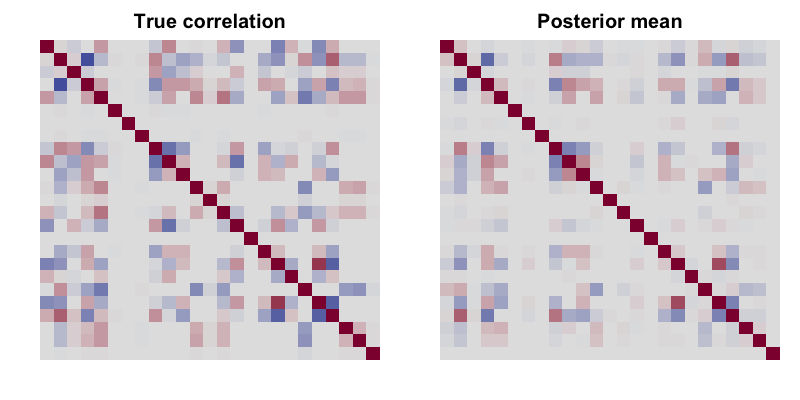
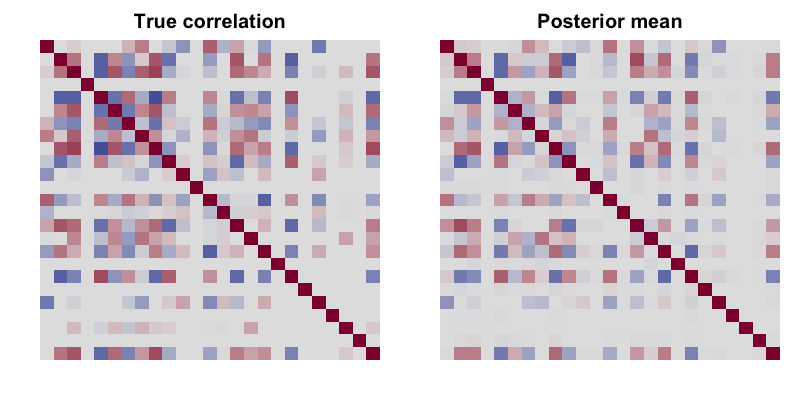
Use seed with stronger recovery in walkthrough (correlation ~0.92)

diff --git a/examples/zimln-simulation.md b/examples/zimln-simulation.md
@@ -58,21 +58,21 @@ M
 #> [1] 10
 
 sim <- simulate_zimln(n = 30, J = 25, K = 3, zero.rate = 0.5,
-                      M = M, m = m, seed = 1)
+                      M = M, m = m, seed = 8)
 
 Y <- sim$Y
 dim(Y)                             # 30 samples x 25 OTUs
 #> [1] 30 25
 Y[1:6, 1:8]                        # a corner of the count table
-#>       [,1]   [,2] [,3] [,4]  [,5] [,6] [,7] [,8]
-#> [1,]     0   2018 2667  245  1041    0 3221 4197
-#> [2,]   736      0   38  104 22222   71    0  535
-#> [3,] 14084  23842  226    0     4   93    0    0
-#> [4,]  1355 343575    0    0  1545    0    7    0
-#> [5,]  1620  33282  326    4   131   61    5    0
-#> [6,]   255      0    0    0     0  207  424  719
+#>      [,1] [,2]  [,3] [,4]   [,5] [,6] [,7] [,8]
+#> [1,]    2    3     0    0 283561    0   25   27
+#> [2,]  626 3904 66142  185      1    0    1    0
+#> [3,] 1184    1     3  194      0    0  401  411
+#> [4,]    3    0     0  464      0    2    0    0
+#> [5,]   23  501     0  468      0    0  178    0
+#> [6,]   66    0    70  226  17226   60  249    0
 mean(Y == 0)                       # fraction of zeros
-#> [1] 0.324
+#> [1] 0.3386667
 ```
 
 Each row of `Y` is a sample; rows sharing a subject (e.g. rows 1-3) are
@@ -101,7 +101,7 @@ compare the posterior mean to the truth on the off-diagonal entries:
 rho_est <- posterior_correlation(fit)          # J x J matrix
 ut <- upper.tri(rho_est)
 cor(rho_est[ut], sim$true.cor[ut])             # agreement with the truth
-#> [1] 0.8405615
+#> [1] 0.9200584
 ```
 
 ![](zimln-simulation_files/figure-gfm/heatmap-1.png)<!-- -->
@@ -121,7 +121,7 @@ recovered from the draws:
 ``` r
 rt_est <- Reduce(`+`, lapply(fit, function(d) outer(d$ri, d$thetaj, `+`))) / length(fit)
 cor(c(rt_est), c(outer(sim$ri, sim$thetaj, `+`)))
-#> [1] 0.9031084
+#> [1] 0.9129447
 ```
 
 ## Adding covariates